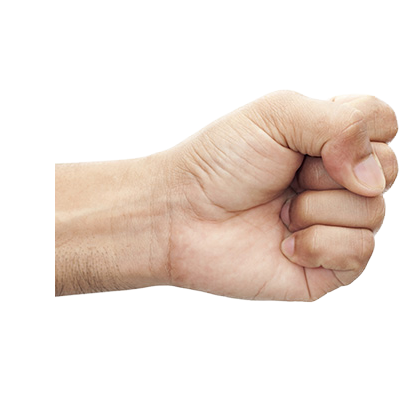
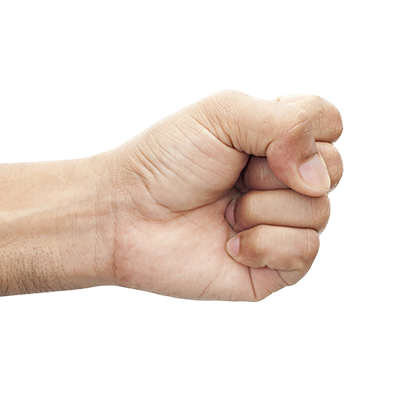
Reposition left hand properly

Changed region(s): [[0.0, 0.21, 1.0, 0.78], [0.21, 0.57, 0.24, 0.6]]

diff --git a/animations.css b/animations.css
@@ -21,12 +21,26 @@
                           transform:translateY(0%);
                           padding-bottom: 7px;
                       }
+                      80% {
+                           transform:translateY(-30%);
+                          }
+                      90% {
+                          transform:translateY(0%);
+                          padding-bottom: 8px;
+                      }
+                      95% {
+                          transform:translateY(-30%);
+                          }
+                      97% {
+                          transform:translateY(0%);
+                          padding-bottom: 9px;
+                      }
                     }
 .left-hand{
-            position: absolute;
+            float:left;
             padding-top: 30px;
-            left: 162px;
 }
+
 
 .right-hand{
             float:right;
